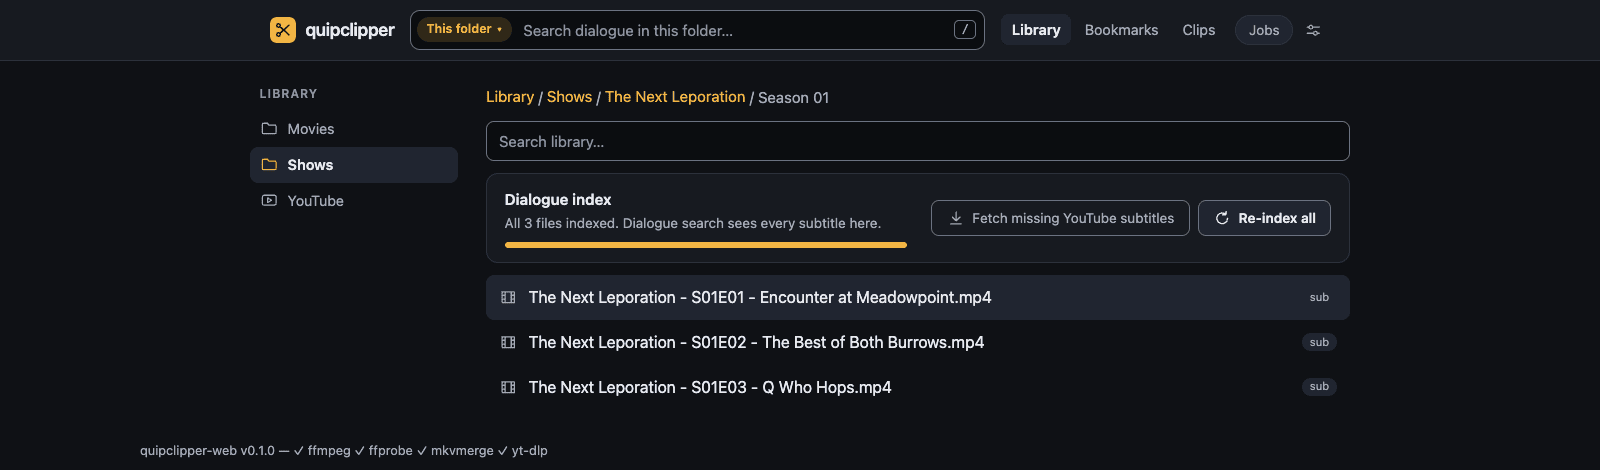
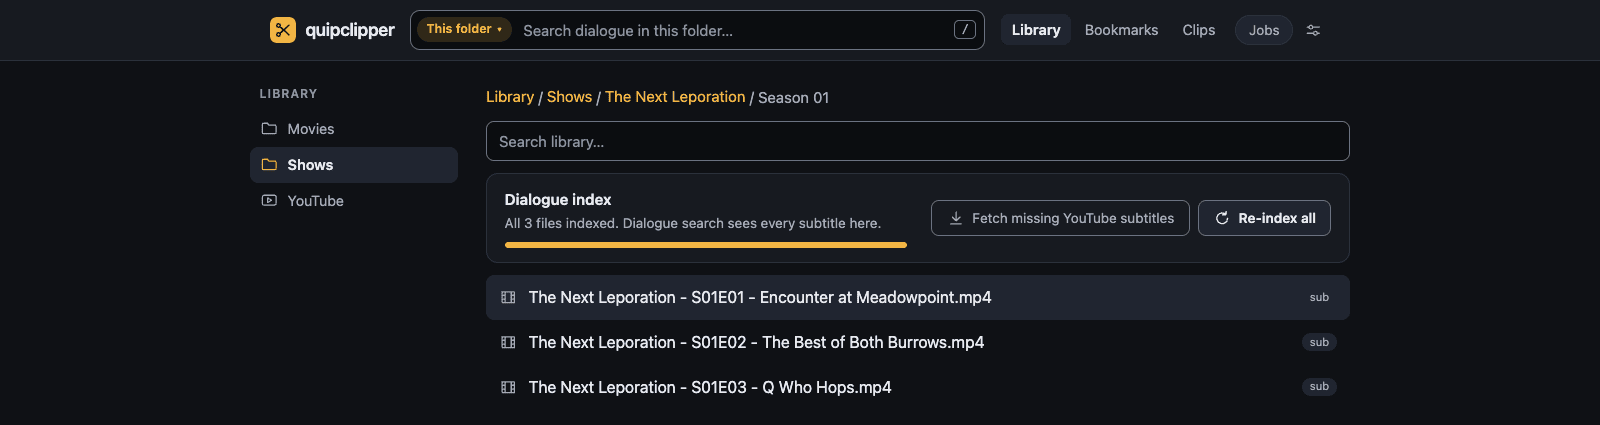
docs(screenshots): crop the library shot above the footer and its version line

diff --git a/docs/screenshots/fixture/shoot.py b/docs/screenshots/fixture/shoot.py
@@ -66,7 +66,7 @@ async def main():
             await page.click("#index-btn")
             await page.wait_for_function("!document.getElementById('index-btn') || document.getElementById('index-btn').hidden || /indexed/i.test(document.getElementById('index-card-text').textContent)", timeout=60000)
             await settle(page, 1500)
-        await shot(page, "library", clip={"x": 0, "y": 0, "width": 1600, "height": 470})
+        await shot(page, "library", clip={"x": 0, "y": 0, "width": 1600, "height": 425})
 
         # Dialogue search over the whole library (from a folder, so the Now
         # playing card is out of the way), tick two hits, preview the first.

diff --git a/docs/screenshots/fixture/README.md b/docs/screenshots/fixture/README.md
@@ -48,5 +48,5 @@ are a few Borg lines for dialogue search to find.
      --output "docs/screenshots/$(basename "$f")" "$f"; done
    ```
 
-   The search shot is cropped to 1600 × 850 (`ffmpeg -vf crop=1600:850:0:0`).
+   The search shot is cropped to 1600 × 850 (above the footer) (`ffmpeg -vf crop=1600:850:0:0`).
    Look at every image before committing it.
